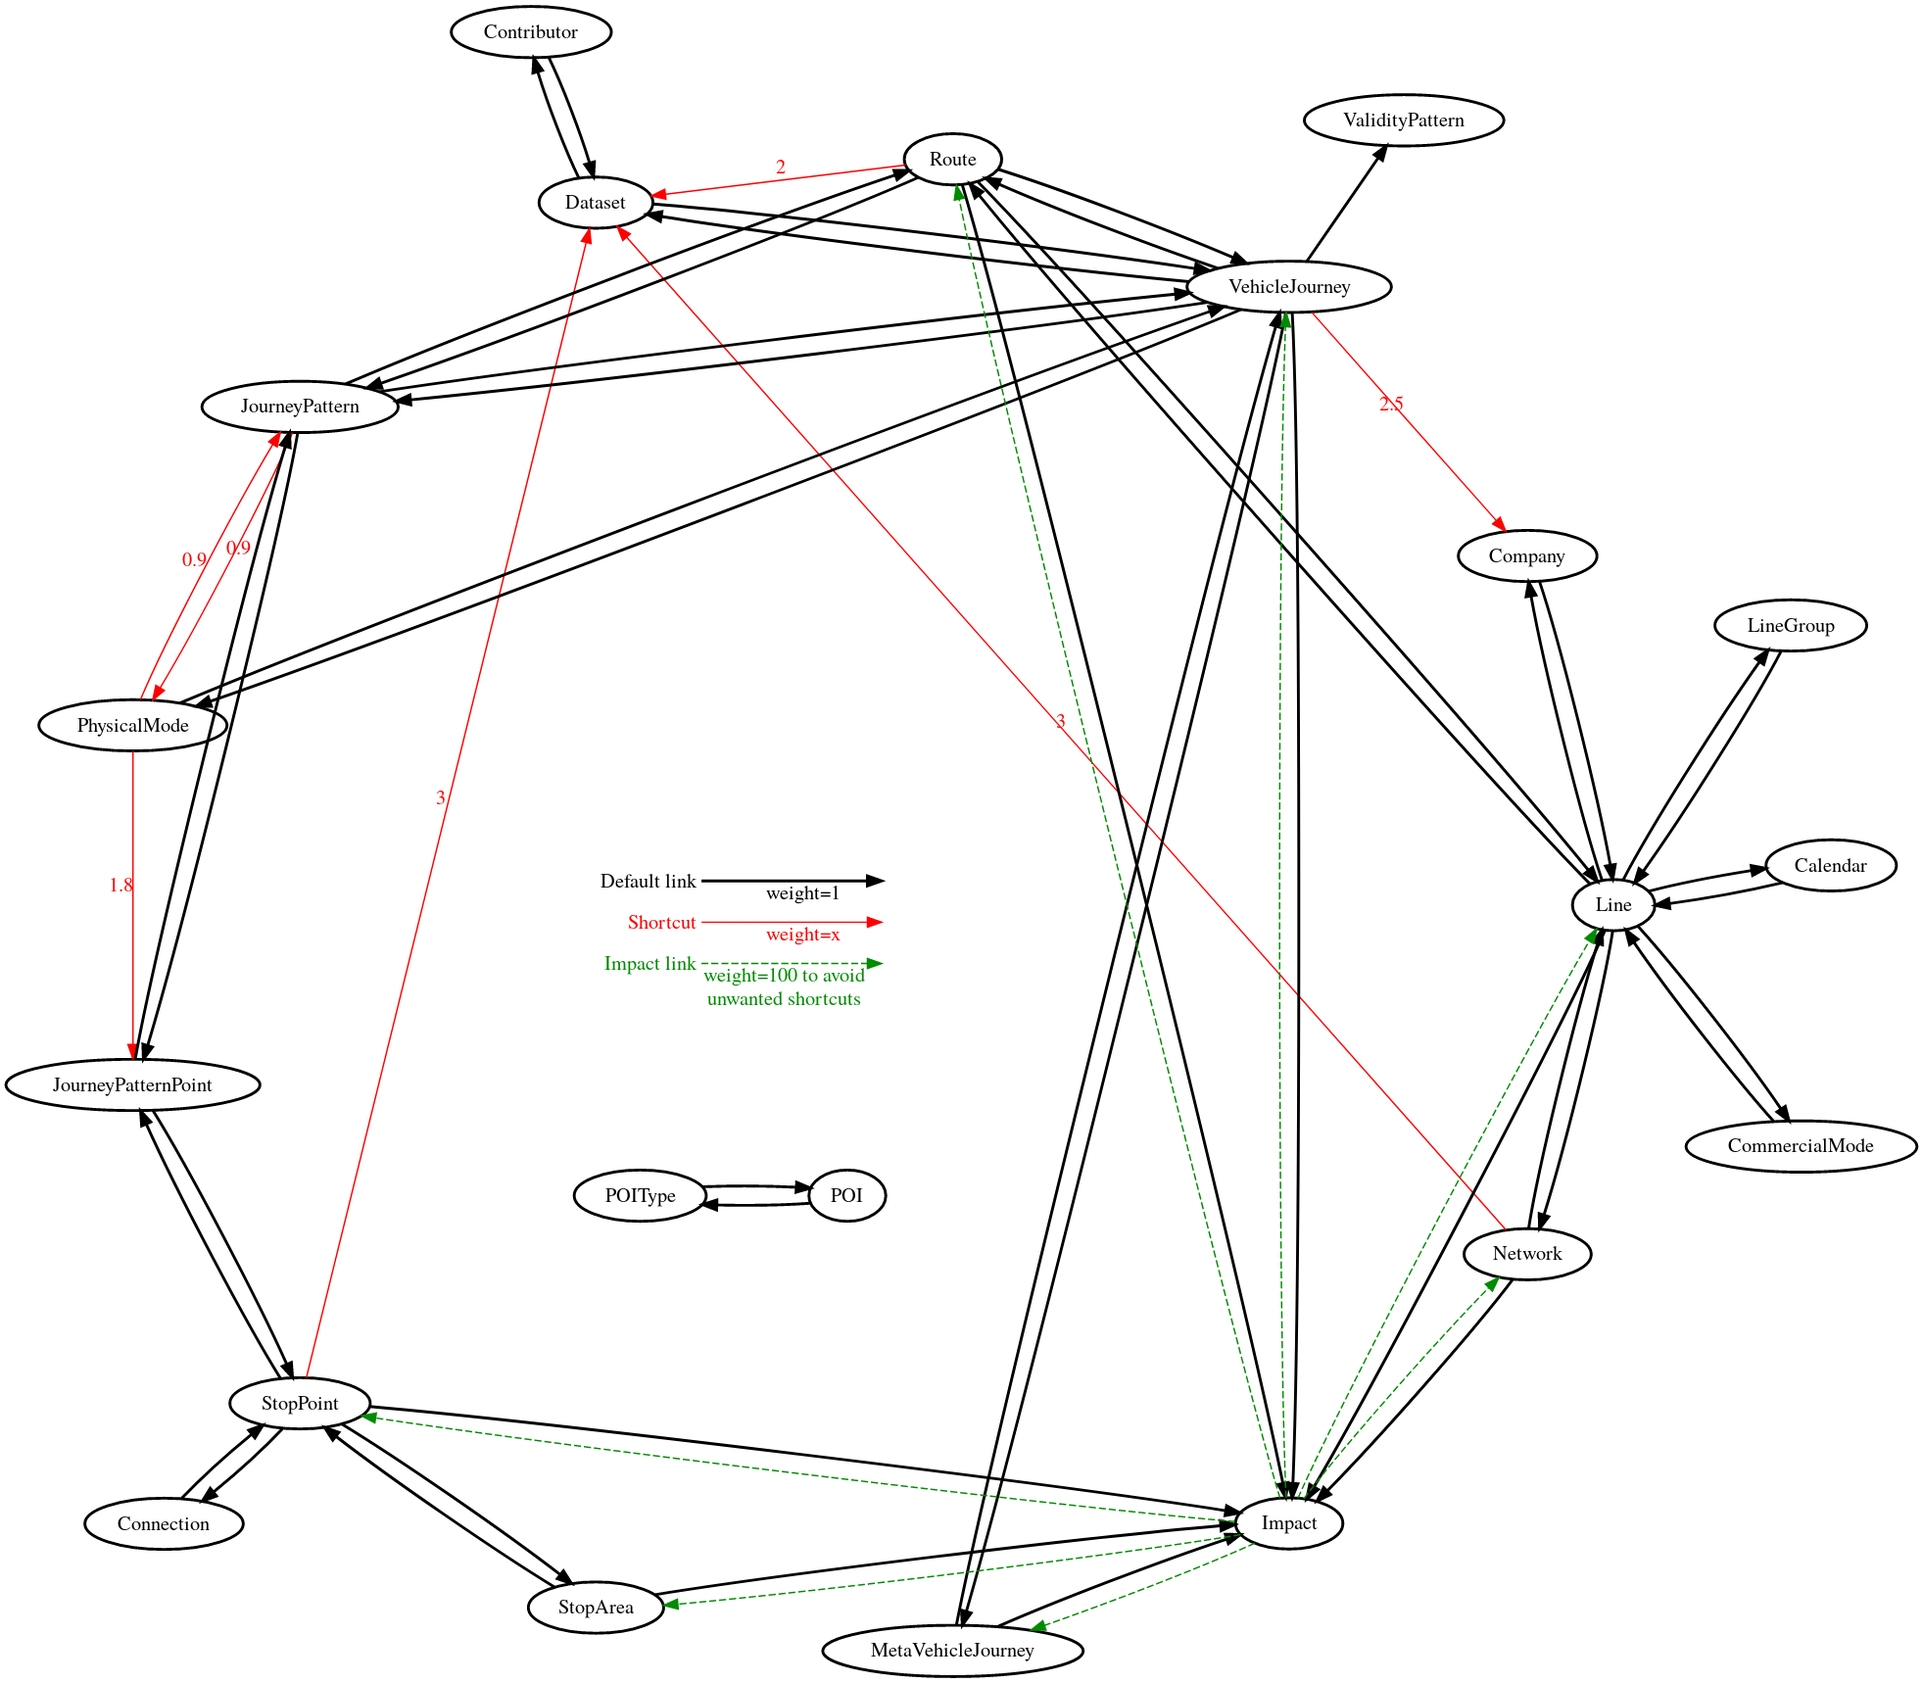
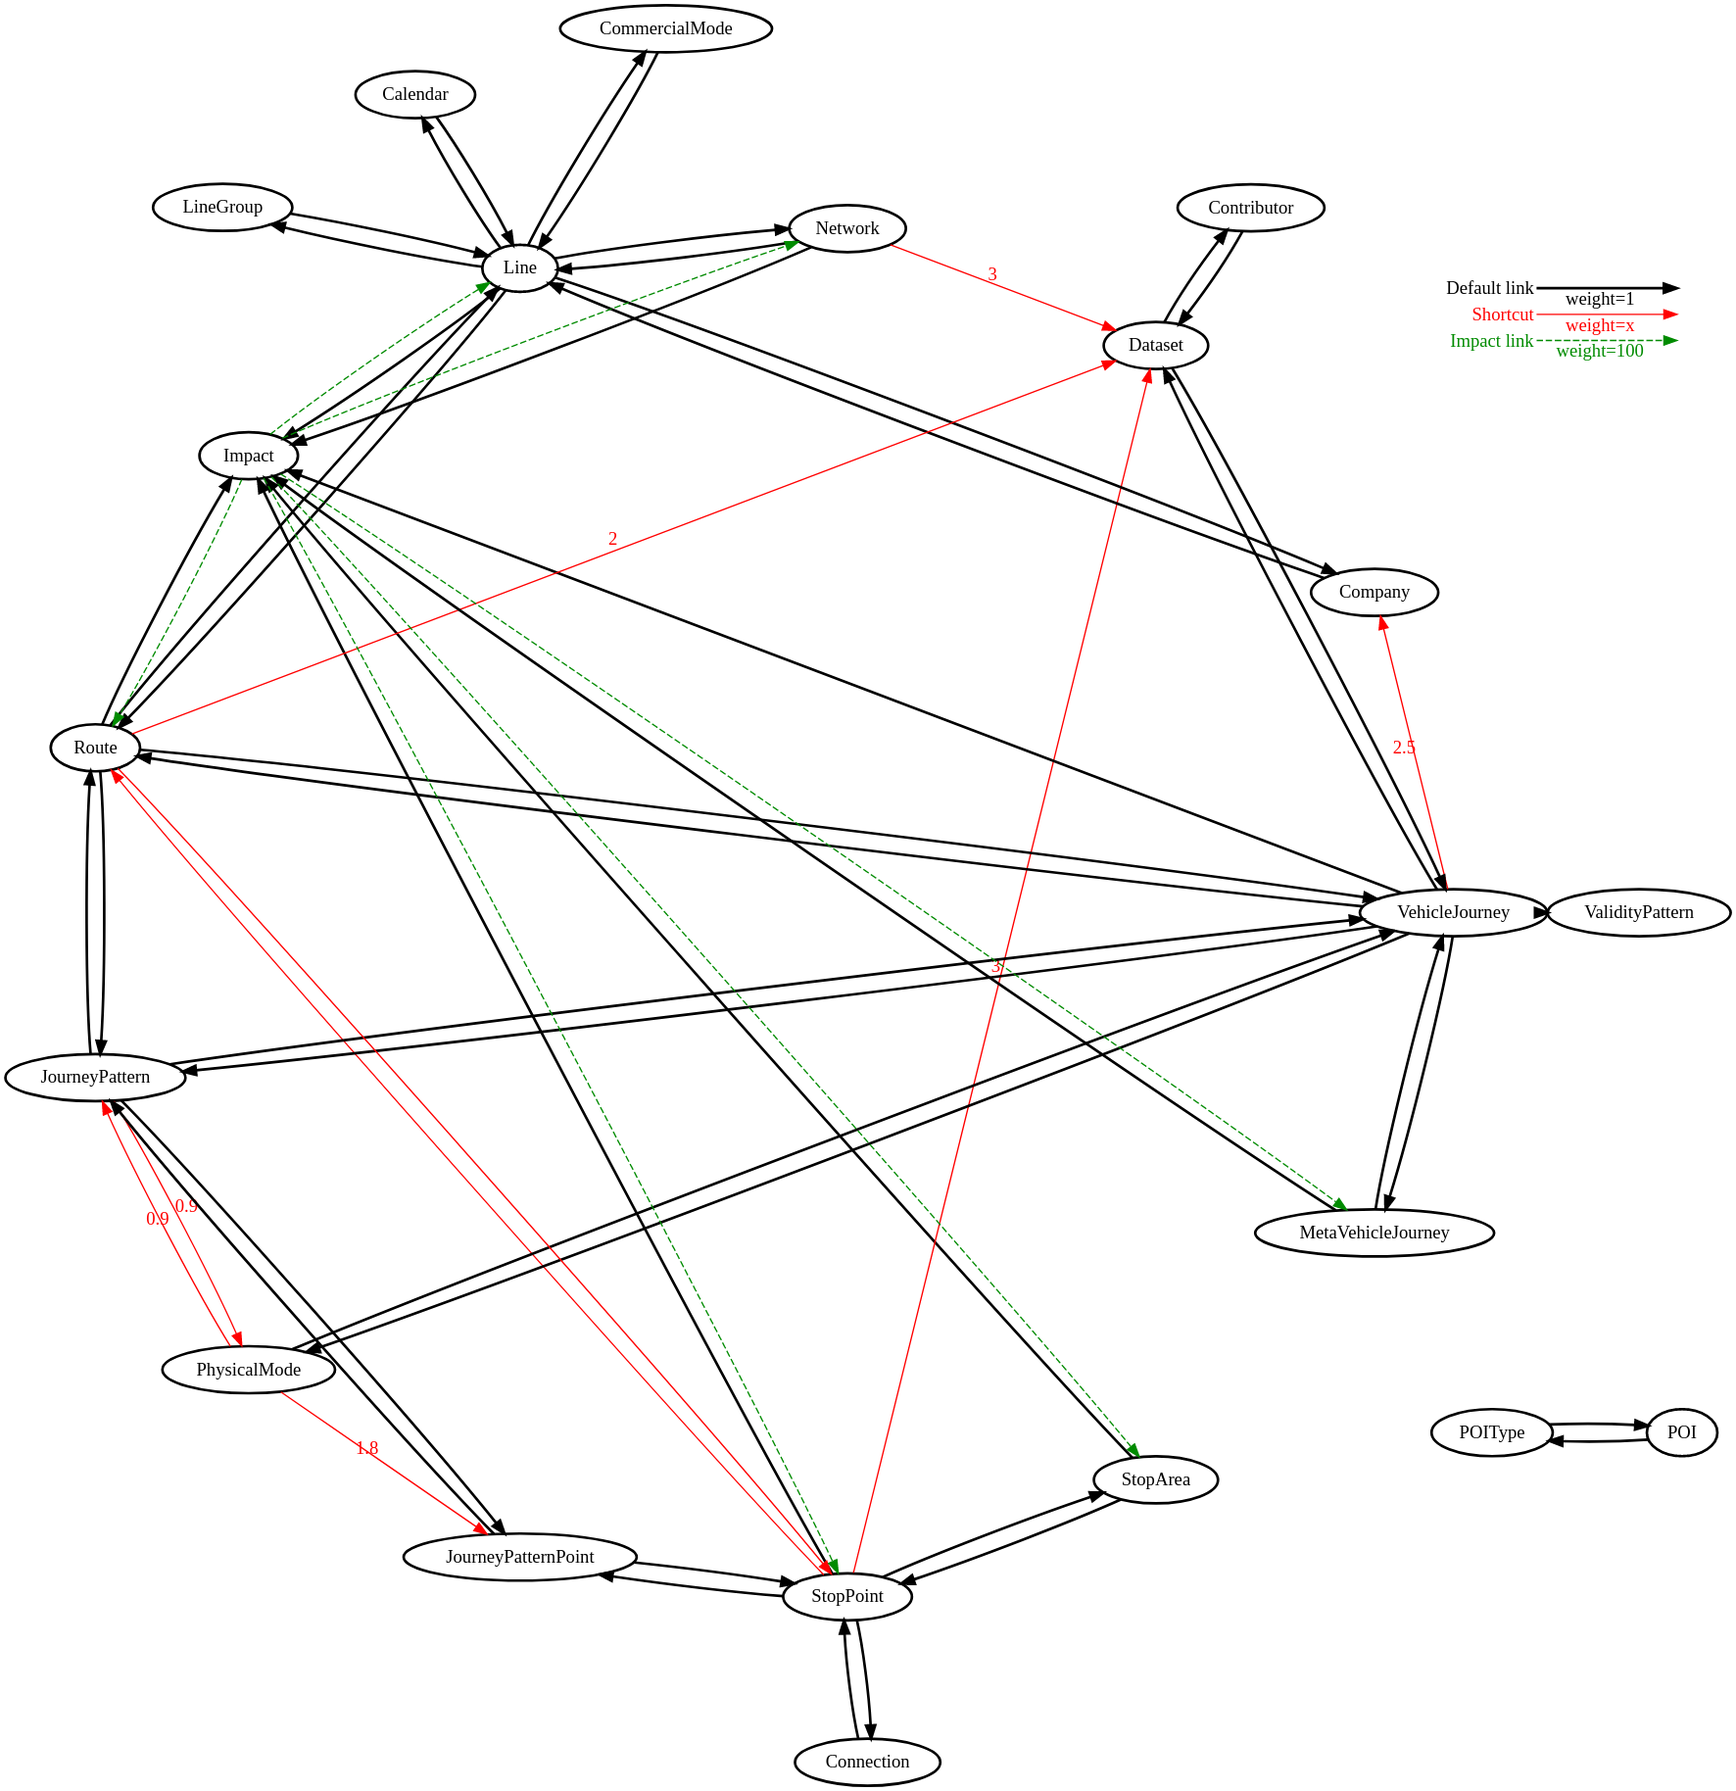
Update RFC

diff --git a/documentation/rfc/ptref_grammar.md b/documentation/rfc/ptref_grammar.md
@@ -173,7 +173,7 @@ The graph is as follow (edges may have weight to avoid unwanted behavior):
 
 ![pt_graph](../diagrams/pt_graph.png)
 
-[edit_graph](https://dreampuf.github.io/GraphvizOnline/#%0Adigraph%20G%20%7B%0A%20%20%20%20subgraph%20cluster_0%20%7B%0A%20%20%20%20%20%20%20%20node%20%5Bstyle%3D%22bold%22%5D%0A%20%20%20%20%20%20%20%20StopArea%20-%3E%20StopPoint%20%5Bstyle%3D%22bold%22%5D%0A%20%20%20%20%20%20%20%20Network%20-%3E%20Line%20%5Bstyle%3D%22bold%22%5D%0A%20%20%20%20%20%20%20%20Company%20-%3E%20Line%20%5Bstyle%3D%22bold%22%5D%0A%20%20%20%20%20%20%20%20CommercialMode%20-%3E%20Line%20%5Bstyle%3D%22bold%22%5D%0A%20%20%20%20%20%20%20%20PhysicalMode%20-%3E%20VehicleJourney%20%5Bstyle%3D%22bold%22%5D%0A%20%20%20%20%20%20%20%20PhysicalMode%20-%3E%20JourneyPattern%20%5B%20label%3D%220.9%22%20fontcolor%3D%22red%22%20color%3D%22red%22%20%5D%0A%20%20%20%20%20%20%20%20PhysicalMode%20-%3E%20JourneyPatternPoint%20%5B%20label%3D%221.8%22%20fontcolor%3D%22red%22%20color%3D%22red%22%20%5D%0A%20%20%20%20%20%20%20%20Line%20-%3E%20CommercialMode%20%5Bstyle%3D%22bold%22%5D%0A%20%20%20%20%20%20%20%20Line%20-%3E%20Company%20%5Bstyle%3D%22bold%22%5D%0A%20%20%20%20%20%20%20%20Line%20-%3E%20Network%20%5Bstyle%3D%22bold%22%5D%0A%20%20%20%20%20%20%20%20Line%20-%3E%20Route%20%5Bstyle%3D%22bold%22%5D%0A%20%20%20%20%20%20%20%20Route%20-%3E%20JourneyPattern%20%5Bstyle%3D%22bold%22%5D%0A%20%20%20%20%20%20%20%20Route%20-%3E%20Line%20%5Bstyle%3D%22bold%22%5D%0A%20%20%20%20%20%20%20%20Route%20-%3E%20VehicleJourney%20%5Bstyle%3D%22bold%22%5D%0A%20%20%20%20%20%20%20%20JourneyPattern%20-%3E%20Route%20%5Bstyle%3D%22bold%22%5D%0A%20%20%20%20%20%20%20%20JourneyPattern%20-%3E%20JourneyPatternPoint%20%5Bstyle%3D%22bold%22%5D%0A%20%20%20%20%20%20%20%20JourneyPattern%20-%3E%20VehicleJourney%20%5Bstyle%3D%22bold%22%5D%0A%20%20%20%20%20%20%20%20JourneyPattern%20-%3E%20PhysicalMode%20%5B%20label%3D%220.9%22%20fontcolor%3D%22red%22%20color%3D%22red%22%20%5D%0A%20%20%20%20%20%20%20%20VehicleJourney%20-%3E%20Route%20%5Bstyle%3D%22bold%22%5D%0A%20%20%20%20%20%20%20%20VehicleJourney%20-%3E%20JourneyPattern%20%5Bstyle%3D%22bold%22%5D%0A%20%20%20%20%20%20%20%20VehicleJourney%20-%3E%20Company%20%5B%20label%3D%222.5%22%20fontcolor%3D%22red%22%20color%3D%22red%22%20%5D%0A%20%20%20%20%20%20%20%20VehicleJourney%20-%3E%20PhysicalMode%20%5Bstyle%3D%22bold%22%5D%0A%20%20%20%20%20%20%20%20VehicleJourney%20-%3E%20ValidityPattern%20%5Bstyle%3D%22bold%22%5D%20%0A%20%20%20%20%20%20%20%20VehicleJourney%20-%3E%20MetaVehicleJourney%20%5Bstyle%3D%22bold%22%5D%0A%20%20%20%20%20%20%20%20VehicleJourney%20-%3E%20Dataset%20%5Bstyle%3D%22bold%22%5D%0A%20%20%20%20%20%20%20%20JourneyPatternPoint%20-%3E%20JourneyPattern%20%5Bstyle%3D%22bold%22%5D%0A%20%20%20%20%20%20%20%20JourneyPatternPoint%20-%3E%20StopPoint%20%5Bstyle%3D%22bold%22%5D%20%0A%20%20%20%20%20%20%20%20StopPoint%20-%3E%20StopArea%20%5Bstyle%3D%22bold%22%5D%0A%20%20%20%20%20%20%20%20StopPoint%20-%3E%20JourneyPatternPoint%20%5Bstyle%3D%22bold%22%5D%0A%20%20%20%20%20%20%20%20StopPoint%20-%3E%20Connection%20%5Bstyle%3D%22bold%22%5D%0A%20%20%20%20%20%20%20%20Connection%20-%3E%20StopPoint%20%5Bstyle%3D%22bold%22%5D%0A%20%20%20%20%20%20%20%20POIType%20-%3E%20POI%20%5Bstyle%3D%22bold%22%5D%0A%20%20%20%20%20%20%20%20POI%20-%3E%20POIType%20%5Bstyle%3D%22bold%22%5D%0A%20%20%20%20%20%20%20%20Line%20-%3E%20Calendar%20%5Bstyle%3D%22bold%22%5D%0A%20%20%20%20%20%20%20%20Calendar%20-%3E%20Line%20%5Bstyle%3D%22bold%22%5D%0A%20%20%20%20%20%20%20%20Line%20-%3E%20LineGroup%20%5Bstyle%3D%22bold%22%5D%0A%20%20%20%20%20%20%20%20LineGroup%20-%3E%20Line%20%5Bstyle%3D%22bold%22%5D%0A%20%20%20%20%20%20%20%20MetaVehicleJourney%20-%3E%20VehicleJourney%20%5Bstyle%3D%22bold%22%5D%0A%20%20%20%20%20%20%20%20Dataset%20-%3E%20Contributor%20%5Bstyle%3D%22bold%22%5D%0A%20%20%20%20%20%20%20%20Dataset%20-%3E%20VehicleJourney%20%5Bstyle%3D%22bold%22%5D%0A%20%20%20%20%20%20%20%20Contributor%20-%3E%20Dataset%20%5Bstyle%3D%22bold%22%5D%0A%20%20%20%20%20%20%20%20Route%20-%3E%20Dataset%20%5B%20label%3D%222%22%20fontcolor%3D%22red%22%20color%3D%22red%22%20%5D%0A%20%20%20%20%20%20%20%20StopPoint%20-%3E%20Dataset%20%5B%20label%3D%223%22%20fontcolor%3D%22red%22%20color%3D%22red%22%20%5D%0A%20%20%20%20%20%20%20%20Network%20-%3E%20Dataset%20%5B%20label%3D%223%22%20fontcolor%3D%22red%22%20color%3D%22red%22%20%5D%0A%20%20%20%20%20%20%20%20StopPoint%20-%3E%20Impact%20%5Bstyle%3D%22bold%22%5D%0A%20%20%20%20%20%20%20%20Line%20-%3E%20Impact%20%5Bstyle%3D%22bold%22%5D%0A%20%20%20%20%20%20%20%20Route%20-%3E%20Impact%20%5Bstyle%3D%22bold%22%5D%0A%20%20%20%20%20%20%20%20StopArea%20-%3E%20Impact%20%5Bstyle%3D%22bold%22%5D%0A%20%20%20%20%20%20%20%20Network%20-%3E%20Impact%20%5Bstyle%3D%22bold%22%5D%0A%20%20%20%20%20%20%20%20VehicleJourney%20-%3E%20Impact%20%5Bstyle%3D%22bold%22%5D%0A%20%20%20%20%20%20%20%20MetaVehicleJourney%20-%3E%20Impact%20%5Bstyle%3D%22bold%22%5D%0A%20%20%20%20%20%20%20%20Impact%20-%3E%20Network%20%20%5B%20style%3D%22dashed%22%20fontcolor%3D%22green4%22%20color%3D%22green4%22%20%5D%0A%20%20%20%20%20%20%20%20Impact%20-%3E%20Line%20%20%5B%20style%3D%22dashed%22%20fontcolor%3D%22green4%22%20color%3D%22green4%22%20%5D%0A%20%20%20%20%20%20%20%20Impact%20-%3E%20Route%20%20%5B%20style%3D%22dashed%22%20fontcolor%3D%22green4%22%20color%3D%22green4%22%20%5D%0A%20%20%20%20%20%20%20%20Impact%20-%3E%20StopArea%20%20%5B%20style%3D%22dashed%22%20fontcolor%3D%22green4%22%20color%3D%22green4%22%20%5D%0A%20%20%20%20%20%20%20%20Impact%20-%3E%20StopPoint%20%20%5B%20style%3D%22dashed%22%20fontcolor%3D%22green4%22%20color%3D%22green4%22%20%5D%0A%20%20%20%20%20%20%20%20Impact%20-%3E%20MetaVehicleJourney%20%20%5B%20style%3D%22dashed%22%20fontcolor%3D%22green4%22%20color%3D%22green4%22%20%5D%0A%20%20%20%20%7D%0A%0A%20%20%20%20subgraph%20cluster_1%20%7B%0A%20%20%20%20%20%20%20%20%23rank%3Dsink%0A%20%20%20%20%20%20%20%20%23rankdir%3DLR%0A%20%20%20%20%20%20%20%20node%20%5Bshape%3Dplaintext%5D%0A%20%20%20%20%20%20%20%20style%3D%22filled%22%0A%20%20%20%20%20%20%20%20style%3Dfilled%0A%09%09color%3Dlightgrey%0A%20%20%20%20%20%20%20%20%23label%20%3D%20%22Legend%22%3B%0A%20%20%20%20%20%20%20%20key%20%5Blabel%3D%3C%3Ctable%20border%3D%220%22%20cellpadding%3D%222%22%20cellspacing%3D%220%22%20cellborder%3D%220%22%3E%0A%20%20%20%20%20%20%20%20%20%20%3Ctr%3E%3Ctd%20align%3D%22right%22%20port%3D%22i1%22%3E%3Cfont%20color%3D%22black%22%3EDefault%20link%3C%2Ffont%3E%3C%2Ftd%3E%3C%2Ftr%3E%0A%20%20%20%20%20%20%20%20%20%20%3Ctr%3E%3Ctd%20align%3D%22right%22%20port%3D%22i2%22%3E%3Cfont%20color%3D%22red%22%3EShortcut%3C%2Ffont%3E%3C%2Ftd%3E%3C%2Ftr%3E%0A%20%20%20%20%20%20%20%20%20%20%3Ctr%3E%3Ctd%20align%3D%22right%22%20port%3D%22i3%22%3E%3Cfont%20color%3D%22green4%22%3EImpact%20link%3C%2Ffont%3E%3C%2Ftd%3E%3C%2Ftr%3E%0A%20%20%20%20%20%20%20%20%20%20%3C%2Ftable%3E%3E%5D%0A%20%20%20%20%20%20%20%20key2%20%5Blabel%3D%3C%3Ctable%20border%3D%220%22%20cellpadding%3D%222%22%20cellspacing%3D%220%22%20cellborder%3D%220%22%3E%0A%20%20%20%20%20%20%20%20%20%20%3Ctr%3E%3Ctd%20port%3D%22i1%22%3E%26nbsp%3B%3C%2Ftd%3E%3C%2Ftr%3E%0A%20%20%20%20%20%20%20%20%20%20%3Ctr%3E%3Ctd%20port%3D%22i2%22%3E%26nbsp%3B%3C%2Ftd%3E%3C%2Ftr%3E%0A%20%20%20%20%20%20%20%20%20%20%3Ctr%3E%3Ctd%20port%3D%22i3%22%3E%26nbsp%3B%3C%2Ftd%3E%3C%2Ftr%3E%0A%20%20%20%20%20%20%20%20%20%20%3C%2Ftable%3E%3E%5D%0A%20%20%20%20%20%20%20%20key%3Ai1%3Ae%20-%3E%20key2%3Ai1%3Aw%20%5B%20label%3D%22weight%3D1%22%20style%3D%22bold%22%5D%0A%20%20%20%20%20%20%20%20key%3Ai2%3Ae%20-%3E%20key2%3Ai2%3Aw%20%5B%20label%3D%22weight%3Dx%22%20fontcolor%3D%22red%22%20color%3D%22red%22%20%5D%0A%20%20%20%20%20%20%20%20key%3Ai3%3Ae%20-%3E%20key2%3Ai3%3Aw%20%5B%20label%3D%22weight%3D100%22%20style%3D%22dashed%22%20fontcolor%3D%22green4%22%20color%3D%22green4%22%20%5D%0A%20%20%20%20%20%20%7D%0A%20%20%0A%7D)
+[edit_graph](https://dreampuf.github.io/GraphvizOnline/#%0Adigraph%20G%20%7B%0A%20%20%20%20subgraph%20cluster_0%20%7B%0A%20%20%20%20%20%20%20%20node%20%5Bstyle%3D%22bold%22%5D%0A%20%20%20%20%20%20%20%20StopArea%20-%3E%20StopPoint%20%5Bstyle%3D%22bold%22%5D%0A%20%20%20%20%20%20%20%20Network%20-%3E%20Line%20%5Bstyle%3D%22bold%22%5D%0A%20%20%20%20%20%20%20%20Company%20-%3E%20Line%20%5Bstyle%3D%22bold%22%5D%0A%20%20%20%20%20%20%20%20CommercialMode%20-%3E%20Line%20%5Bstyle%3D%22bold%22%5D%0A%20%20%20%20%20%20%20%20PhysicalMode%20-%3E%20VehicleJourney%20%5Bstyle%3D%22bold%22%5D%0A%20%20%20%20%20%20%20%20PhysicalMode%20-%3E%20JourneyPattern%20%5B%20label%3D%220.9%22%20fontcolor%3D%22red%22%20color%3D%22red%22%20%5D%0A%20%20%20%20%20%20%20%20PhysicalMode%20-%3E%20JourneyPatternPoint%20%5B%20label%3D%221.8%22%20fontcolor%3D%22red%22%20color%3D%22red%22%20%5D%0A%20%20%20%20%20%20%20%20Line%20-%3E%20CommercialMode%20%5Bstyle%3D%22bold%22%5D%0A%20%20%20%20%20%20%20%20Line%20-%3E%20Company%20%5Bstyle%3D%22bold%22%5D%0A%20%20%20%20%20%20%20%20Line%20-%3E%20Network%20%5Bstyle%3D%22bold%22%5D%0A%20%20%20%20%20%20%20%20Line%20-%3E%20Route%20%5Bstyle%3D%22bold%22%5D%0A%20%20%20%20%20%20%20%20Route%20-%3E%20JourneyPattern%20%5Bstyle%3D%22bold%22%5D%0A%20%20%20%20%20%20%20%20Route%20-%3E%20Line%20%5Bstyle%3D%22bold%22%5D%0A%20%20%20%20%20%20%20%20Route%20-%3E%20VehicleJourney%20%5Bstyle%3D%22bold%22%5D%0A%20%20%20%20%20%20%20%20Route%20-%3E%20StopPoint%20%5B%20color%3D%22red%22%20%5D%0A%20%20%20%20%20%20%20%20JourneyPattern%20-%3E%20Route%20%5Bstyle%3D%22bold%22%5D%0A%20%20%20%20%20%20%20%20JourneyPattern%20-%3E%20JourneyPatternPoint%20%5Bstyle%3D%22bold%22%5D%0A%20%20%20%20%20%20%20%20JourneyPattern%20-%3E%20VehicleJourney%20%5Bstyle%3D%22bold%22%5D%0A%20%20%20%20%20%20%20%20JourneyPattern%20-%3E%20PhysicalMode%20%5B%20label%3D%220.9%22%20fontcolor%3D%22red%22%20color%3D%22red%22%20%5D%0A%20%20%20%20%20%20%20%20VehicleJourney%20-%3E%20Route%20%5Bstyle%3D%22bold%22%5D%0A%20%20%20%20%20%20%20%20VehicleJourney%20-%3E%20JourneyPattern%20%5Bstyle%3D%22bold%22%5D%0A%20%20%20%20%20%20%20%20VehicleJourney%20-%3E%20Company%20%5B%20label%3D%222.5%22%20fontcolor%3D%22red%22%20color%3D%22red%22%20%5D%0A%20%20%20%20%20%20%20%20VehicleJourney%20-%3E%20PhysicalMode%20%5Bstyle%3D%22bold%22%5D%0A%20%20%20%20%20%20%20%20VehicleJourney%20-%3E%20ValidityPattern%20%5Bstyle%3D%22bold%22%5D%20%0A%20%20%20%20%20%20%20%20VehicleJourney%20-%3E%20MetaVehicleJourney%20%5Bstyle%3D%22bold%22%5D%0A%20%20%20%20%20%20%20%20VehicleJourney%20-%3E%20Dataset%20%5Bstyle%3D%22bold%22%5D%0A%20%20%20%20%20%20%20%20JourneyPatternPoint%20-%3E%20JourneyPattern%20%5Bstyle%3D%22bold%22%5D%0A%20%20%20%20%20%20%20%20JourneyPatternPoint%20-%3E%20StopPoint%20%5Bstyle%3D%22bold%22%5D%20%0A%20%20%20%20%20%20%20%20StopPoint%20-%3E%20StopArea%20%5Bstyle%3D%22bold%22%5D%0A%20%20%20%20%20%20%20%20StopPoint%20-%3E%20JourneyPatternPoint%20%5Bstyle%3D%22bold%22%5D%0A%20%20%20%20%20%20%20%20StopPoint%20-%3E%20Connection%20%5Bstyle%3D%22bold%22%5D%0A%20%20%20%20%20%20%20%20StopPoint%20-%3E%20Route%20%5B%20color%3D%22red%22%20%5D%0A%20%20%20%20%20%20%20%20Connection%20-%3E%20StopPoint%20%5Bstyle%3D%22bold%22%5D%0A%20%20%20%20%20%20%20%20POIType%20-%3E%20POI%20%5Bstyle%3D%22bold%22%5D%0A%20%20%20%20%20%20%20%20POI%20-%3E%20POIType%20%5Bstyle%3D%22bold%22%5D%0A%20%20%20%20%20%20%20%20Line%20-%3E%20Calendar%20%5Bstyle%3D%22bold%22%5D%0A%20%20%20%20%20%20%20%20Calendar%20-%3E%20Line%20%5Bstyle%3D%22bold%22%5D%0A%20%20%20%20%20%20%20%20Line%20-%3E%20LineGroup%20%5Bstyle%3D%22bold%22%5D%0A%20%20%20%20%20%20%20%20LineGroup%20-%3E%20Line%20%5Bstyle%3D%22bold%22%5D%0A%20%20%20%20%20%20%20%20MetaVehicleJourney%20-%3E%20VehicleJourney%20%5Bstyle%3D%22bold%22%5D%0A%20%20%20%20%20%20%20%20Dataset%20-%3E%20Contributor%20%5Bstyle%3D%22bold%22%5D%0A%20%20%20%20%20%20%20%20Dataset%20-%3E%20VehicleJourney%20%5Bstyle%3D%22bold%22%5D%0A%20%20%20%20%20%20%20%20Contributor%20-%3E%20Dataset%20%5Bstyle%3D%22bold%22%5D%0A%20%20%20%20%20%20%20%20Route%20-%3E%20Dataset%20%5B%20label%3D%222%22%20fontcolor%3D%22red%22%20color%3D%22red%22%20%5D%0A%20%20%20%20%20%20%20%20StopPoint%20-%3E%20Dataset%20%5B%20label%3D%223%22%20fontcolor%3D%22red%22%20color%3D%22red%22%20%5D%0A%20%20%20%20%20%20%20%20Network%20-%3E%20Dataset%20%5B%20label%3D%223%22%20fontcolor%3D%22red%22%20color%3D%22red%22%20%5D%0A%20%20%20%20%20%20%20%20StopPoint%20-%3E%20Impact%20%5Bstyle%3D%22bold%22%5D%0A%20%20%20%20%20%20%20%20Line%20-%3E%20Impact%20%5Bstyle%3D%22bold%22%5D%0A%20%20%20%20%20%20%20%20Route%20-%3E%20Impact%20%5Bstyle%3D%22bold%22%5D%0A%20%20%20%20%20%20%20%20StopArea%20-%3E%20Impact%20%5Bstyle%3D%22bold%22%5D%0A%20%20%20%20%20%20%20%20Network%20-%3E%20Impact%20%5Bstyle%3D%22bold%22%5D%0A%20%20%20%20%20%20%20%20VehicleJourney%20-%3E%20Impact%20%5Bstyle%3D%22bold%22%5D%0A%20%20%20%20%20%20%20%20MetaVehicleJourney%20-%3E%20Impact%20%5Bstyle%3D%22bold%22%5D%0A%20%20%20%20%20%20%20%20Impact%20-%3E%20Network%20%20%5B%20style%3D%22dashed%22%20fontcolor%3D%22green4%22%20color%3D%22green4%22%20%5D%0A%20%20%20%20%20%20%20%20Impact%20-%3E%20Line%20%20%5B%20style%3D%22dashed%22%20fontcolor%3D%22green4%22%20color%3D%22green4%22%20%5D%0A%20%20%20%20%20%20%20%20Impact%20-%3E%20Route%20%20%5B%20style%3D%22dashed%22%20fontcolor%3D%22green4%22%20color%3D%22green4%22%20%5D%0A%20%20%20%20%20%20%20%20Impact%20-%3E%20StopArea%20%20%5B%20style%3D%22dashed%22%20fontcolor%3D%22green4%22%20color%3D%22green4%22%20%5D%0A%20%20%20%20%20%20%20%20Impact%20-%3E%20StopPoint%20%20%5B%20style%3D%22dashed%22%20fontcolor%3D%22green4%22%20color%3D%22green4%22%20%5D%0A%20%20%20%20%20%20%20%20Impact%20-%3E%20MetaVehicleJourney%20%20%5B%20style%3D%22dashed%22%20fontcolor%3D%22green4%22%20color%3D%22green4%22%20%5D%0A%20%20%20%20%7D%0A%0A%20%20%20%20subgraph%20cluster_1%20%7B%0A%20%20%20%20%20%20%20%20%23rank%3Dsink%0A%20%20%20%20%20%20%20%20%23rankdir%3DLR%0A%20%20%20%20%20%20%20%20node%20%5Bshape%3Dplaintext%5D%0A%20%20%20%20%20%20%20%20style%3D%22filled%22%0A%20%20%20%20%20%20%20%20style%3Dfilled%0A%09%09color%3Dlightgrey%0A%20%20%20%20%20%20%20%20%23label%20%3D%20%22Legend%22%3B%0A%20%20%20%20%20%20%20%20key%20%5Blabel%3D%3C%3Ctable%20border%3D%220%22%20cellpadding%3D%222%22%20cellspacing%3D%220%22%20cellborder%3D%220%22%3E%0A%20%20%20%20%20%20%20%20%20%20%3Ctr%3E%3Ctd%20align%3D%22right%22%20port%3D%22i1%22%3E%3Cfont%20color%3D%22black%22%3EDefault%20link%3C%2Ffont%3E%3C%2Ftd%3E%3C%2Ftr%3E%0A%20%20%20%20%20%20%20%20%20%20%3Ctr%3E%3Ctd%20align%3D%22right%22%20port%3D%22i2%22%3E%3Cfont%20color%3D%22red%22%3EShortcut%3C%2Ffont%3E%3C%2Ftd%3E%3C%2Ftr%3E%0A%20%20%20%20%20%20%20%20%20%20%3Ctr%3E%3Ctd%20align%3D%22right%22%20port%3D%22i3%22%3E%3Cfont%20color%3D%22green4%22%3EImpact%20link%3C%2Ffont%3E%3C%2Ftd%3E%3C%2Ftr%3E%0A%20%20%20%20%20%20%20%20%20%20%3C%2Ftable%3E%3E%5D%0A%20%20%20%20%20%20%20%20key2%20%5Blabel%3D%3C%3Ctable%20border%3D%220%22%20cellpadding%3D%222%22%20cellspacing%3D%220%22%20cellborder%3D%220%22%3E%0A%20%20%20%20%20%20%20%20%20%20%3Ctr%3E%3Ctd%20port%3D%22i1%22%3E%26nbsp%3B%3C%2Ftd%3E%3C%2Ftr%3E%0A%20%20%20%20%20%20%20%20%20%20%3Ctr%3E%3Ctd%20port%3D%22i2%22%3E%26nbsp%3B%3C%2Ftd%3E%3C%2Ftr%3E%0A%20%20%20%20%20%20%20%20%20%20%3Ctr%3E%3Ctd%20port%3D%22i3%22%3E%26nbsp%3B%3C%2Ftd%3E%3C%2Ftr%3E%0A%20%20%20%20%20%20%20%20%20%20%3C%2Ftable%3E%3E%5D%0A%20%20%20%20%20%20%20%20key%3Ai1%3Ae%20-%3E%20key2%3Ai1%3Aw%20%5B%20label%3D%22weight%3D1%22%20style%3D%22bold%22%5D%0A%20%20%20%20%20%20%20%20key%3Ai2%3Ae%20-%3E%20key2%3Ai2%3Aw%20%5B%20label%3D%22weight%3Dx%22%20fontcolor%3D%22red%22%20color%3D%22red%22%20%5D%0A%20%20%20%20%20%20%20%20key%3Ai3%3Ae%20-%3E%20key2%3Ai3%3Aw%20%5B%20label%3D%22weight%3D100%22%20style%3D%22dashed%22%20fontcolor%3D%22green4%22%20color%3D%22green4%22%20%5D%0A%20%20%20%20%20%20%7D%0A%20%20%0A%7D)
 
 ## Advanced examples
 
